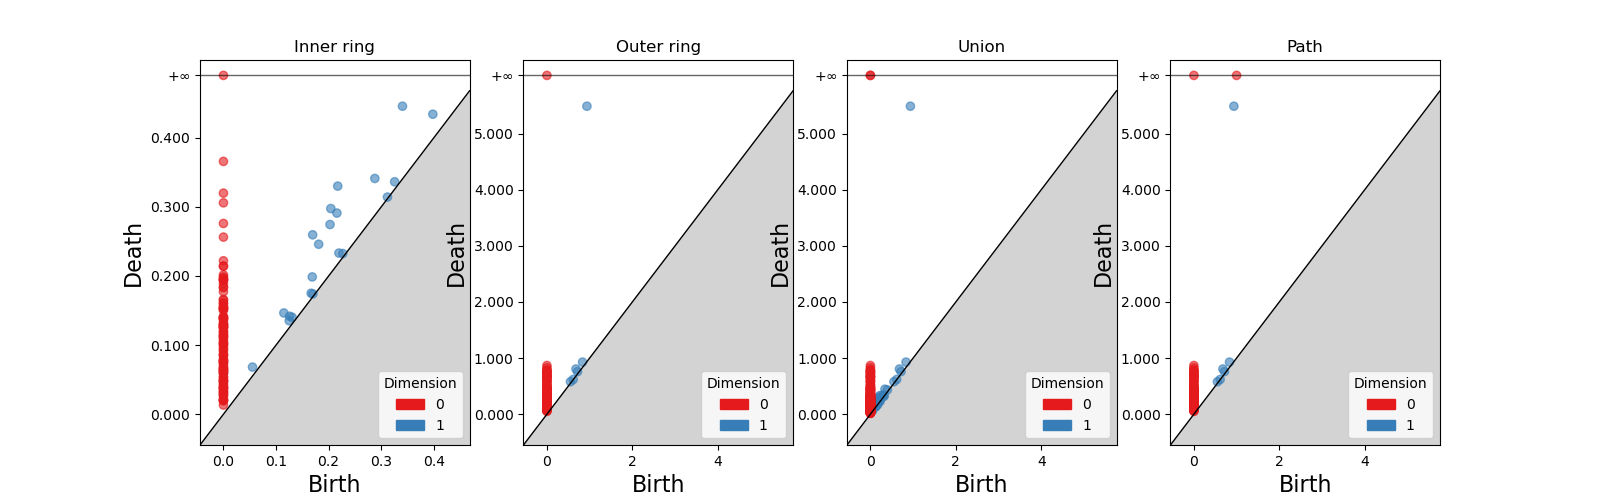
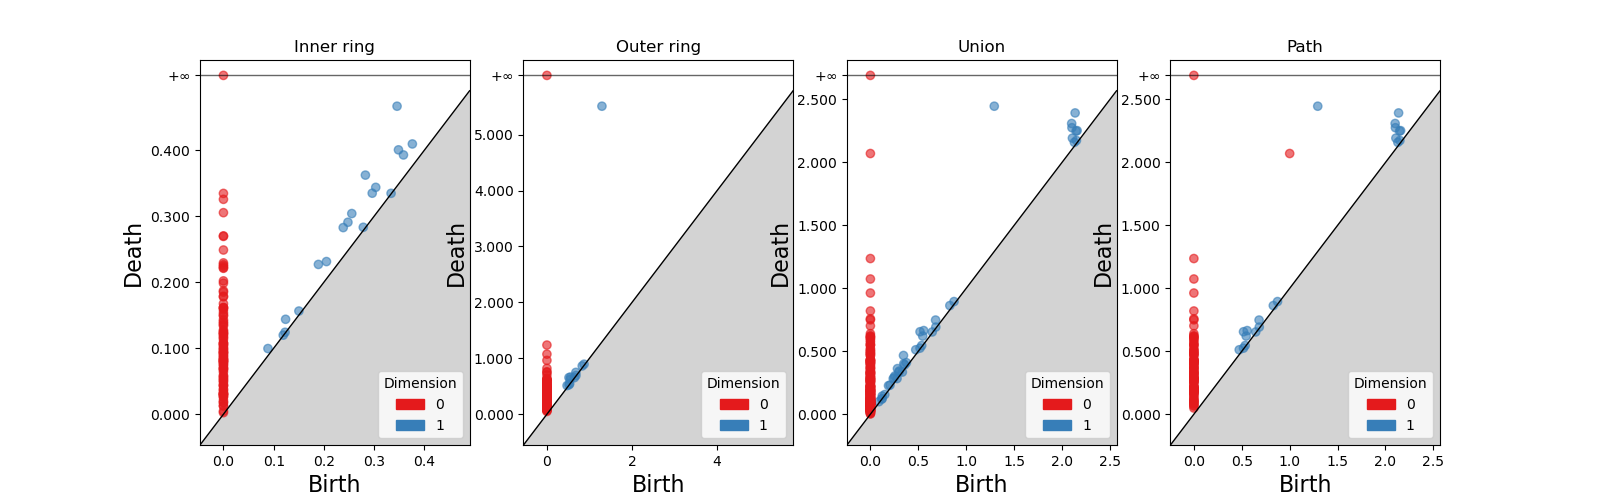
Added half-rings demo

diff --git a/scripts/demo_path_computation.py b/scripts/demo_path_computation.py
@@ -5,46 +5,45 @@ import xarray as xr
 from classwise_tda import pathwise_tda
 
 # Open data
-ds = xr.open_dataset("data/two_ring_synth_dataset.nc")
+ds = xr.open_dataset("data/half_rings_synth_dataset.nc")
+
+class_A_name = "top_ring"
+class_B_name = "bottom_ring"
 
 # Create simplicial complexes
-unified_points = xr.concat([ds["inner_ring"], ds["outer_ring"]], dim="index")
-inner_slice = slice(0, ds["inner_ring"].sizes["index"])
-outer_slice = slice(
-    ds["inner_ring"].sizes["index"],
-    ds["inner_ring"].sizes["index"] + ds["outer_ring"].sizes["index"],
+unified_points = xr.concat([ds[class_A_name], ds[class_B_name]], dim="index")
+A_slice = slice(0, ds[class_A_name].sizes["index"])
+B_slice = slice(
+    ds[class_A_name].sizes["index"],
+    ds[class_A_name].sizes["index"] + ds[class_B_name].sizes["index"],
 )
 complexes = pathwise_tda.create_classwise_complexes(
-    unified_points.data, {"inner": inner_slice, "outer": outer_slice}
+    unified_points.data, {class_A_name: A_slice, class_B_name: B_slice}
 )
-inner_complex = complexes["inner"]
-outer_complex = complexes["outer"]
-union_complex = complexes["inner_U_outer"]
+A_complex = complexes[class_A_name]
+B_complex = complexes[class_B_name]
+union_complex = complexes[class_A_name + "_U_" + class_B_name]
 
 # Compute PH
-inner_persistence = inner_complex.persistence()
-outer_persistence = outer_complex.persistence()
+A_persistence = A_complex.persistence()
+B_persistence = B_complex.persistence()
 union_persistence = union_complex.persistence()
 
 # Choose a value at which to union
 alpha = 1.0
 
-# Filtrations are generator returning a tuple ([vertices], filtration_value)
-inner_filtration = inner_complex.get_filtration()
-outer_filtration = outer_complex.get_filtration()
-
-path_complex = pathwise_tda.step_func_path_complex(outer_complex, union_complex, alpha)
+path_complex = pathwise_tda.step_func_path_complex(A_complex, union_complex, alpha)
 
 # Compute new PH
 path_persistence = path_complex.persistence()
 
-F, ax = plt.subplots(1, 4, figsize=(16, 5))
-gudhi.plot_persistence_diagram(persistence=inner_persistence, axes=ax[0])
-ax[0].set_title("Inner ring")
-gudhi.plot_persistence_diagram(persistence=outer_persistence, axes=ax[1])
-ax[1].set_title("Outer ring")
+F, ax = plt.subplots(1, 4, figsize=(16, 4))
+gudhi.plot_persistence_diagram(persistence=A_persistence, axes=ax[0])
+ax[0].set_title(class_A_name)
+gudhi.plot_persistence_diagram(persistence=B_persistence, axes=ax[1])
+ax[1].set_title(class_B_name)
 gudhi.plot_persistence_diagram(persistence=union_persistence, axes=ax[2])
 ax[2].set_title("Union")
 gudhi.plot_persistence_diagram(persistence=path_persistence, axes=ax[3])
 ax[3].set_title("Path")
-F.savefig("two_ring_persistence.png")
+F.savefig("half_rings_persistence.png")

diff --git a/scripts/synth_data_gen.py b/scripts/synth_data_gen.py
@@ -1,0 +1,83 @@
+import matplotlib.pyplot as plt
+import numpy as np
+import xarray as xr
+
+##### Two ring dataset
+
+
+# Set up random initializer
+rng = np.random.default_rng()
+
+# Create inner ring
+inner_angles = rng.uniform(0, 2 * np.pi, size=100)
+inner_radii = rng.uniform(0, 1, size=100)
+
+inner_ring_points = np.stack(
+    [inner_radii * np.cos(inner_angles), inner_radii * np.sin(inner_angles)]
+).transpose()
+
+# Create outer ring
+outer_angles = rng.uniform(0, 2 * np.pi, size=100)
+outer_radii = rng.uniform(3, 4, size=100)
+
+outer_ring_points = np.stack(
+    [outer_radii * np.cos(outer_angles), outer_radii * np.sin(outer_angles)]
+).transpose()
+
+# Visualize data
+F, ax = plt.subplots(1, 1)
+ax.scatter(inner_ring_points[:, 0], inner_ring_points[:, 1], color="blue")
+ax.scatter(outer_ring_points[:, 0], outer_ring_points[:, 1], color="orange")
+
+F.savefig("data/two_ring_data_visualization.png")
+
+# Set up dataset and save
+inner_ring = xr.DataArray(
+    inner_ring_points, dims=("index", "coords"), coords={"coords": ["x", "y"]}
+)
+outer_ring = xr.DataArray(
+    outer_ring_points, dims=("index", "coords"), coords={"coords": ["x", "y"]}
+)
+ds = xr.Dataset({"inner_ring": inner_ring, "outer_ring": outer_ring})
+
+ds.to_netcdf("data/two_ring_synth_dataset.nc")
+
+
+##### Two half rings dataset
+
+# Set up random initializer
+rng = np.random.default_rng()
+
+# Create top ring
+top_angles = rng.uniform(0, np.pi, size=100)
+top_radii = rng.uniform(0.8, 1.2, size=100)
+
+top_ring_points = np.stack(
+    [top_radii * np.cos(top_angles), top_radii * np.sin(top_angles)]
+).transpose()
+
+# Create outer ring
+bottom_angles = rng.uniform(np.pi, 2 * np.pi, size=100)
+bottom_radii = rng.uniform(0.8, 1.2, size=100)
+
+bottom_ring_points = np.stack(
+    [bottom_radii * np.cos(bottom_angles), bottom_radii * np.sin(bottom_angles)]
+).transpose()
+
+# Visualize data
+F, ax = plt.subplots(1, 1)
+ax.scatter(top_ring_points[:, 0], top_ring_points[:, 1], color="blue")
+ax.scatter(bottom_ring_points[:, 0], bottom_ring_points[:, 1], color="orange")
+
+F.savefig("data/half_rings_data_visualization.png")
+
+# Set up dataset and save
+top_ring = xr.DataArray(
+    top_ring_points, dims=("index", "coords"), coords={"coords": ["x", "y"]}
+)
+bottom_ring = xr.DataArray(
+    bottom_ring_points, dims=("index", "coords"), coords={"coords": ["x", "y"]}
+)
+ds = xr.Dataset({"top_ring": top_ring, "bottom_ring": bottom_ring})
+
+ds.to_netcdf("data/half_rings_synth_dataset.nc")
